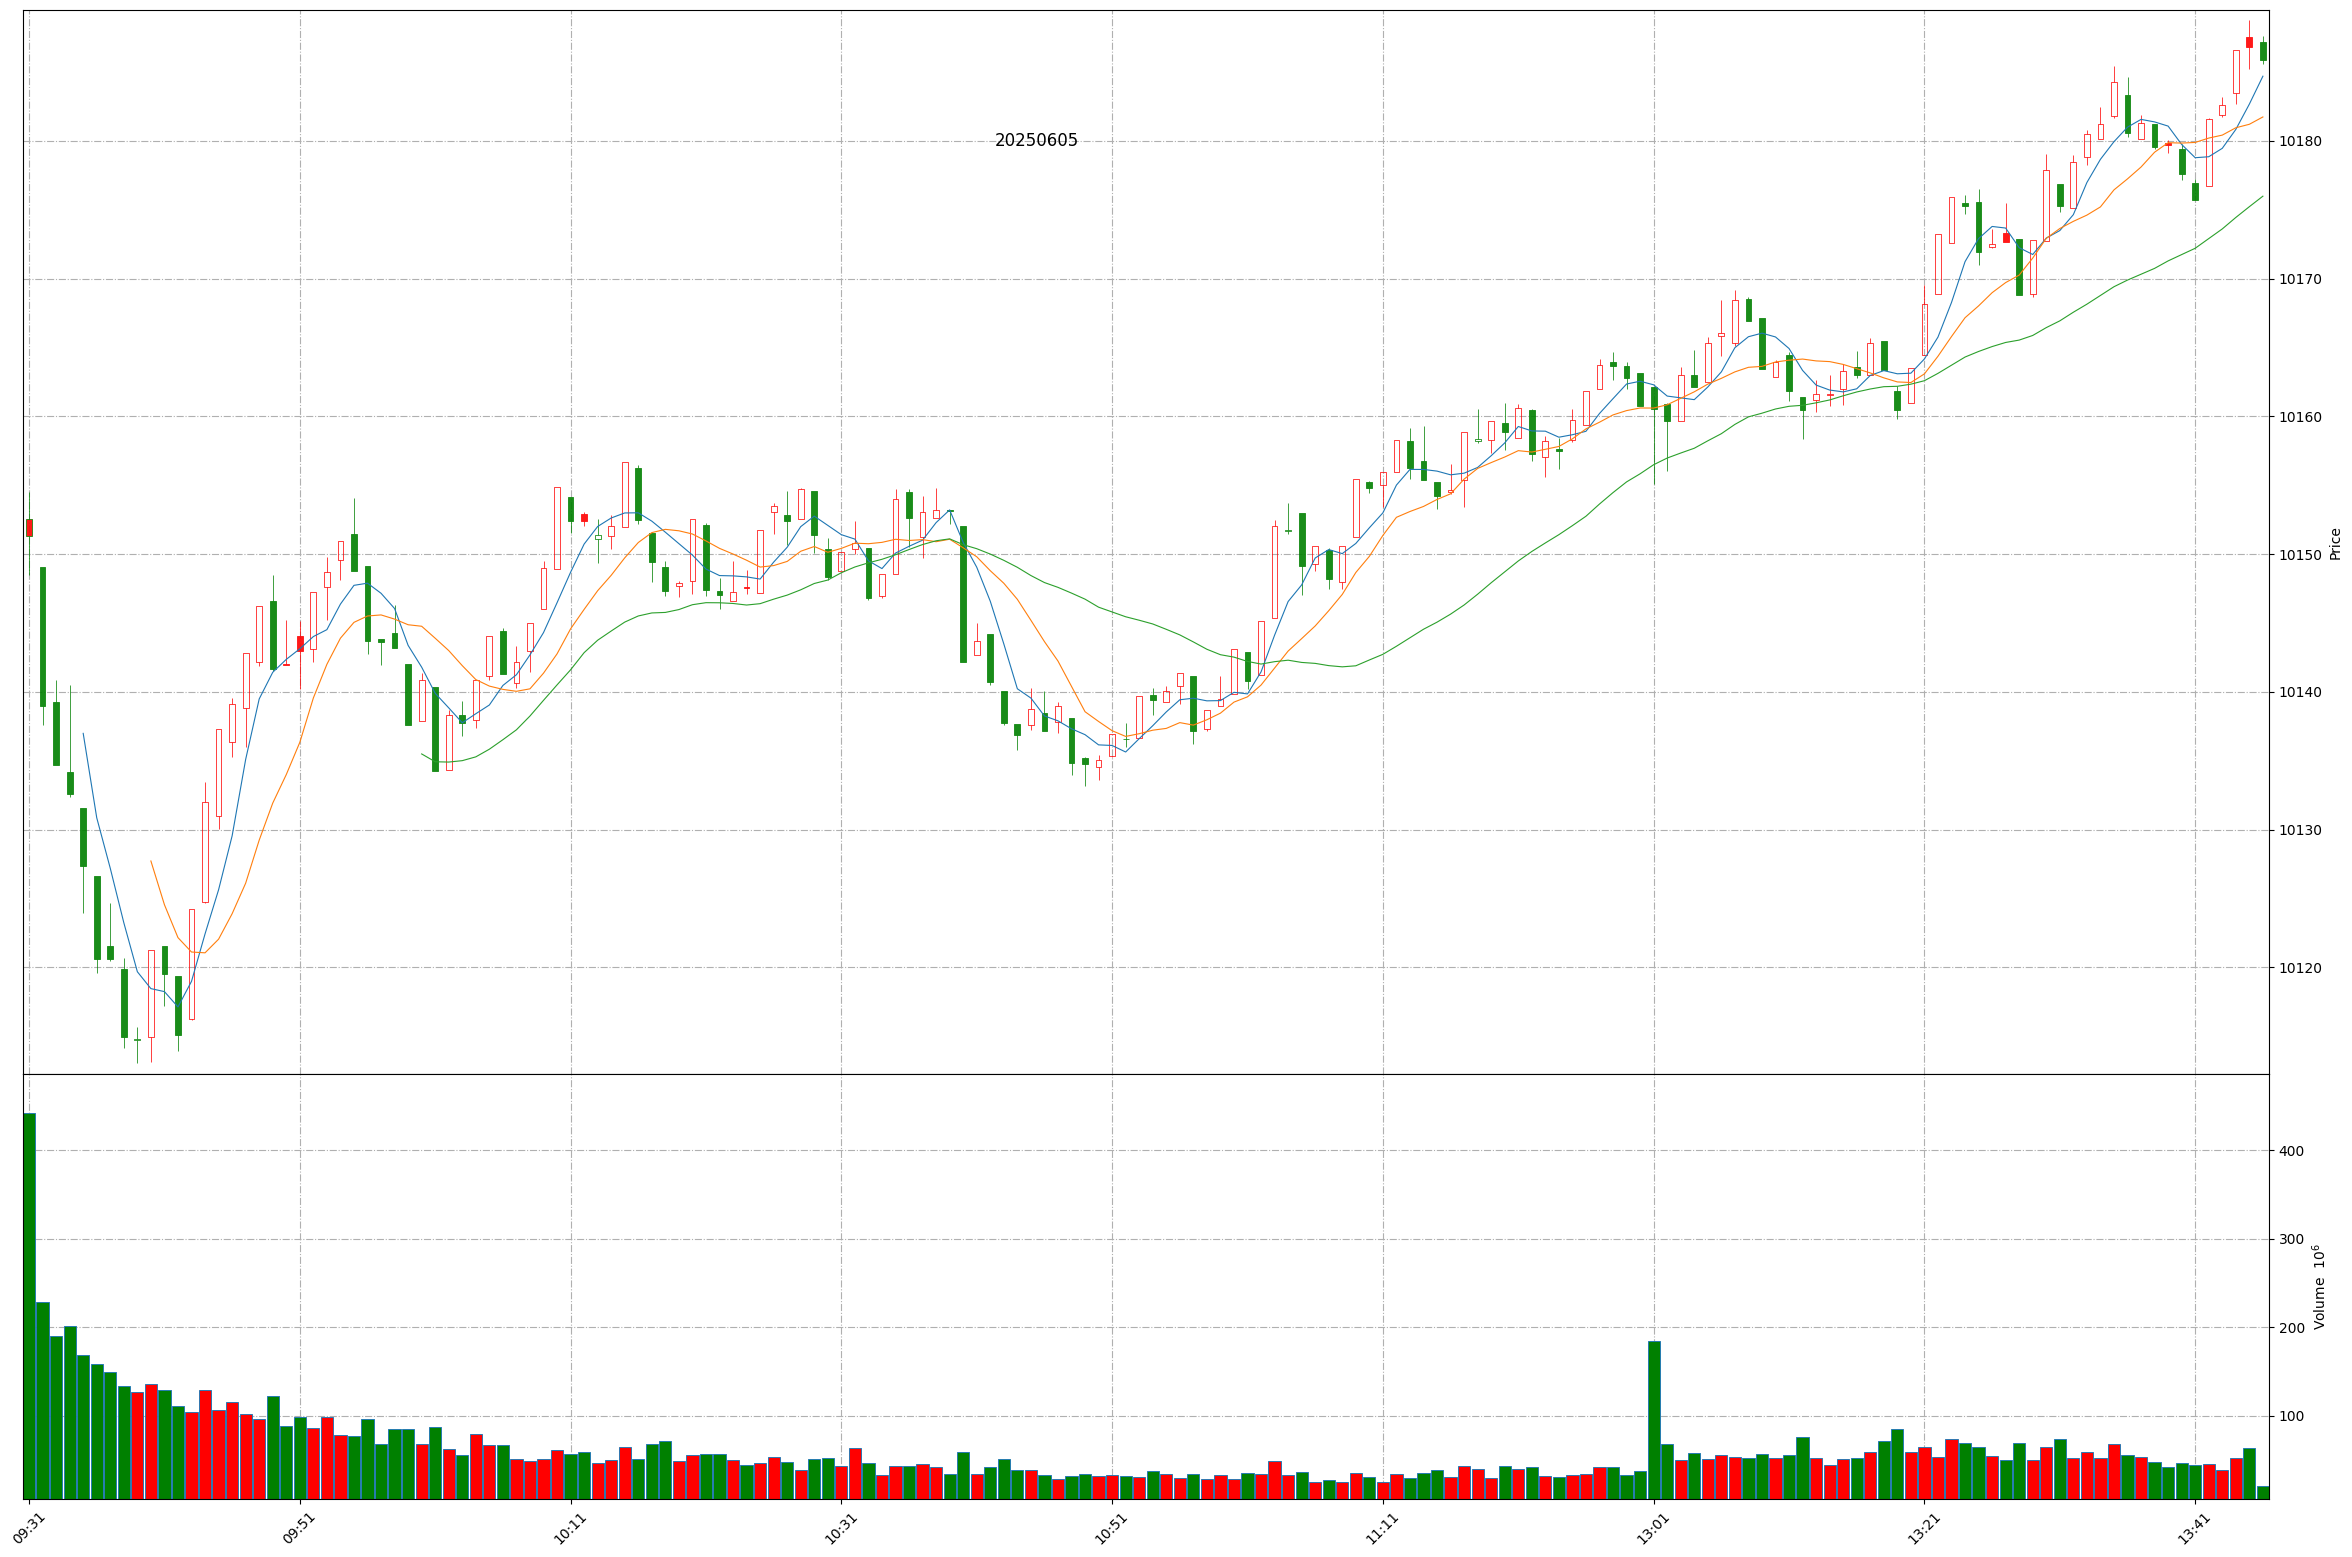
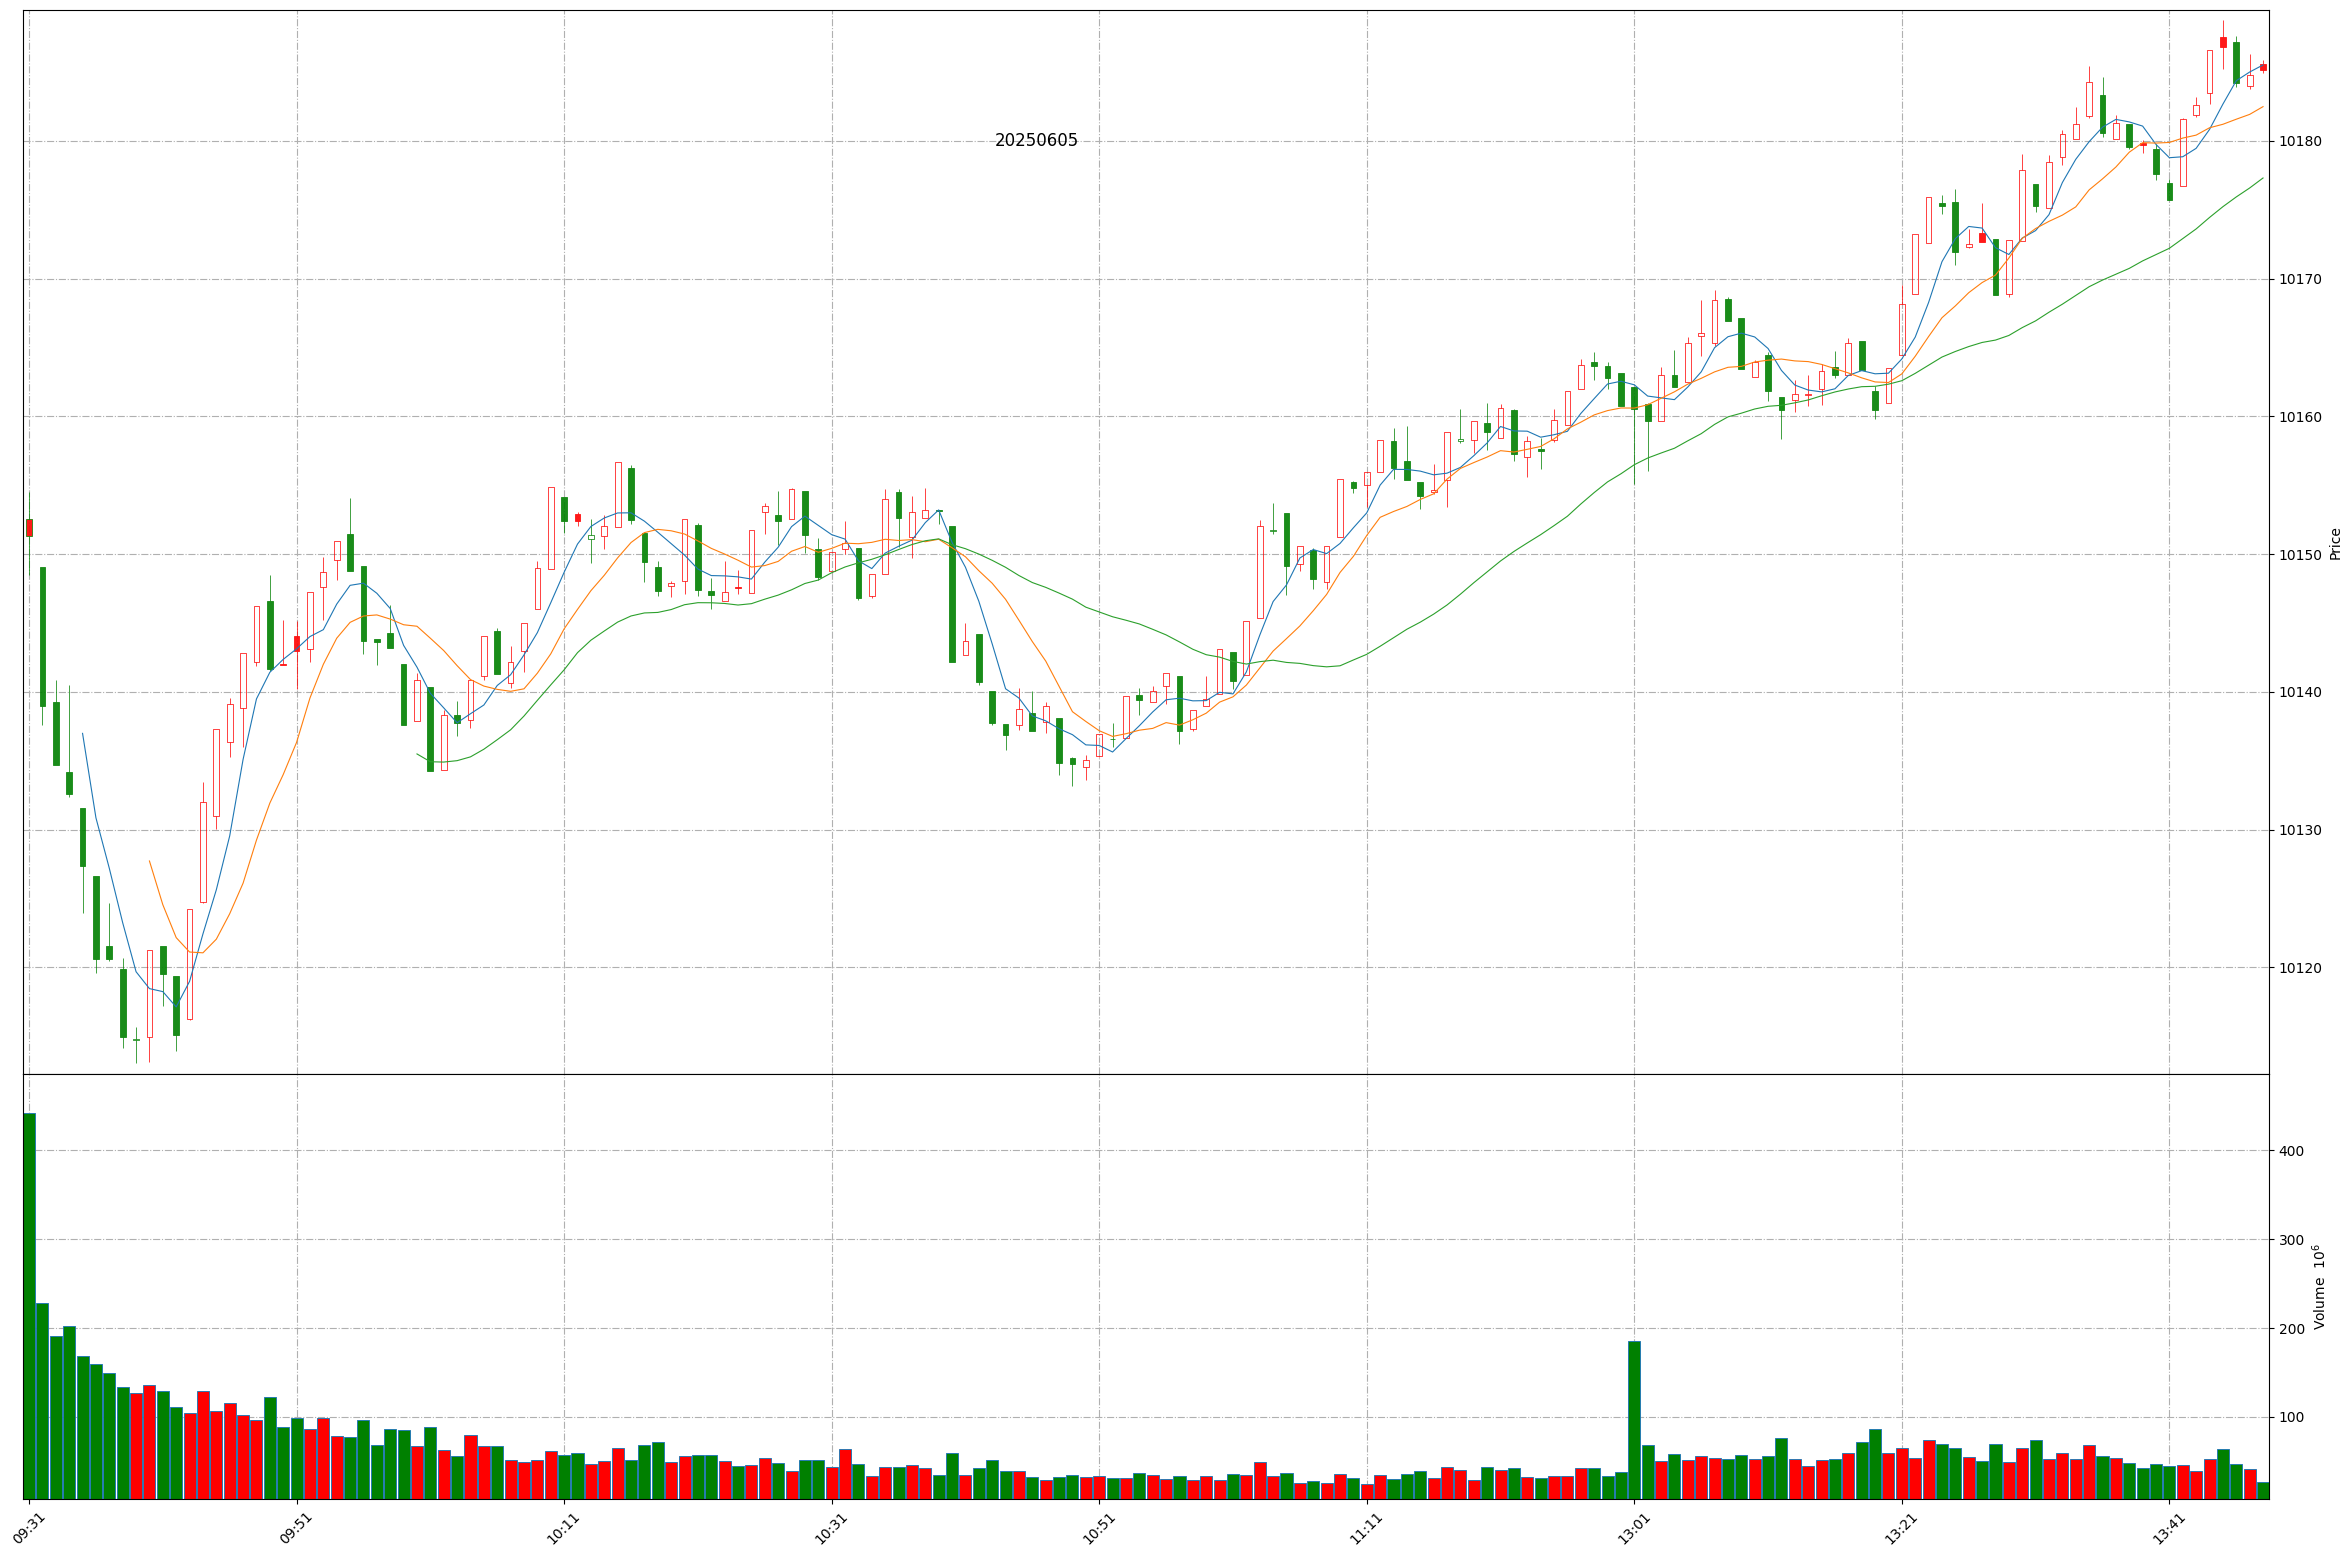
Github action update at 2025-06-05 13:47:50.

Changed region(s): [[0.0931, 0.0308, 0.9622, 0.5549], [0.031, 0.8632, 0.9622, 0.9865], [0.0621, 0.5549, 0.0931, 0.6782]]

diff --git a/README.md b/README.md
@@ -1,11 +1,11 @@
 
 # Daily-A-share-market-quotes 每日 A 股指数（5min 更新）- 20250605
 
-### 上证指数 20250605 13:45
+### 上证指数 20250605 13:47
 ![](./fig/2025/6/20250605-sh000001.png)
 
-### 深证成指 20250605 13:45
+### 深证成指 20250605 13:47
 ![](./fig/2025/6/20250605-sz399001.png)
 
-### 北证50 20250605 13:45
+### 北证50 20250605 13:47
 ![](./fig/2025/6/20250605-bj899050.png)
